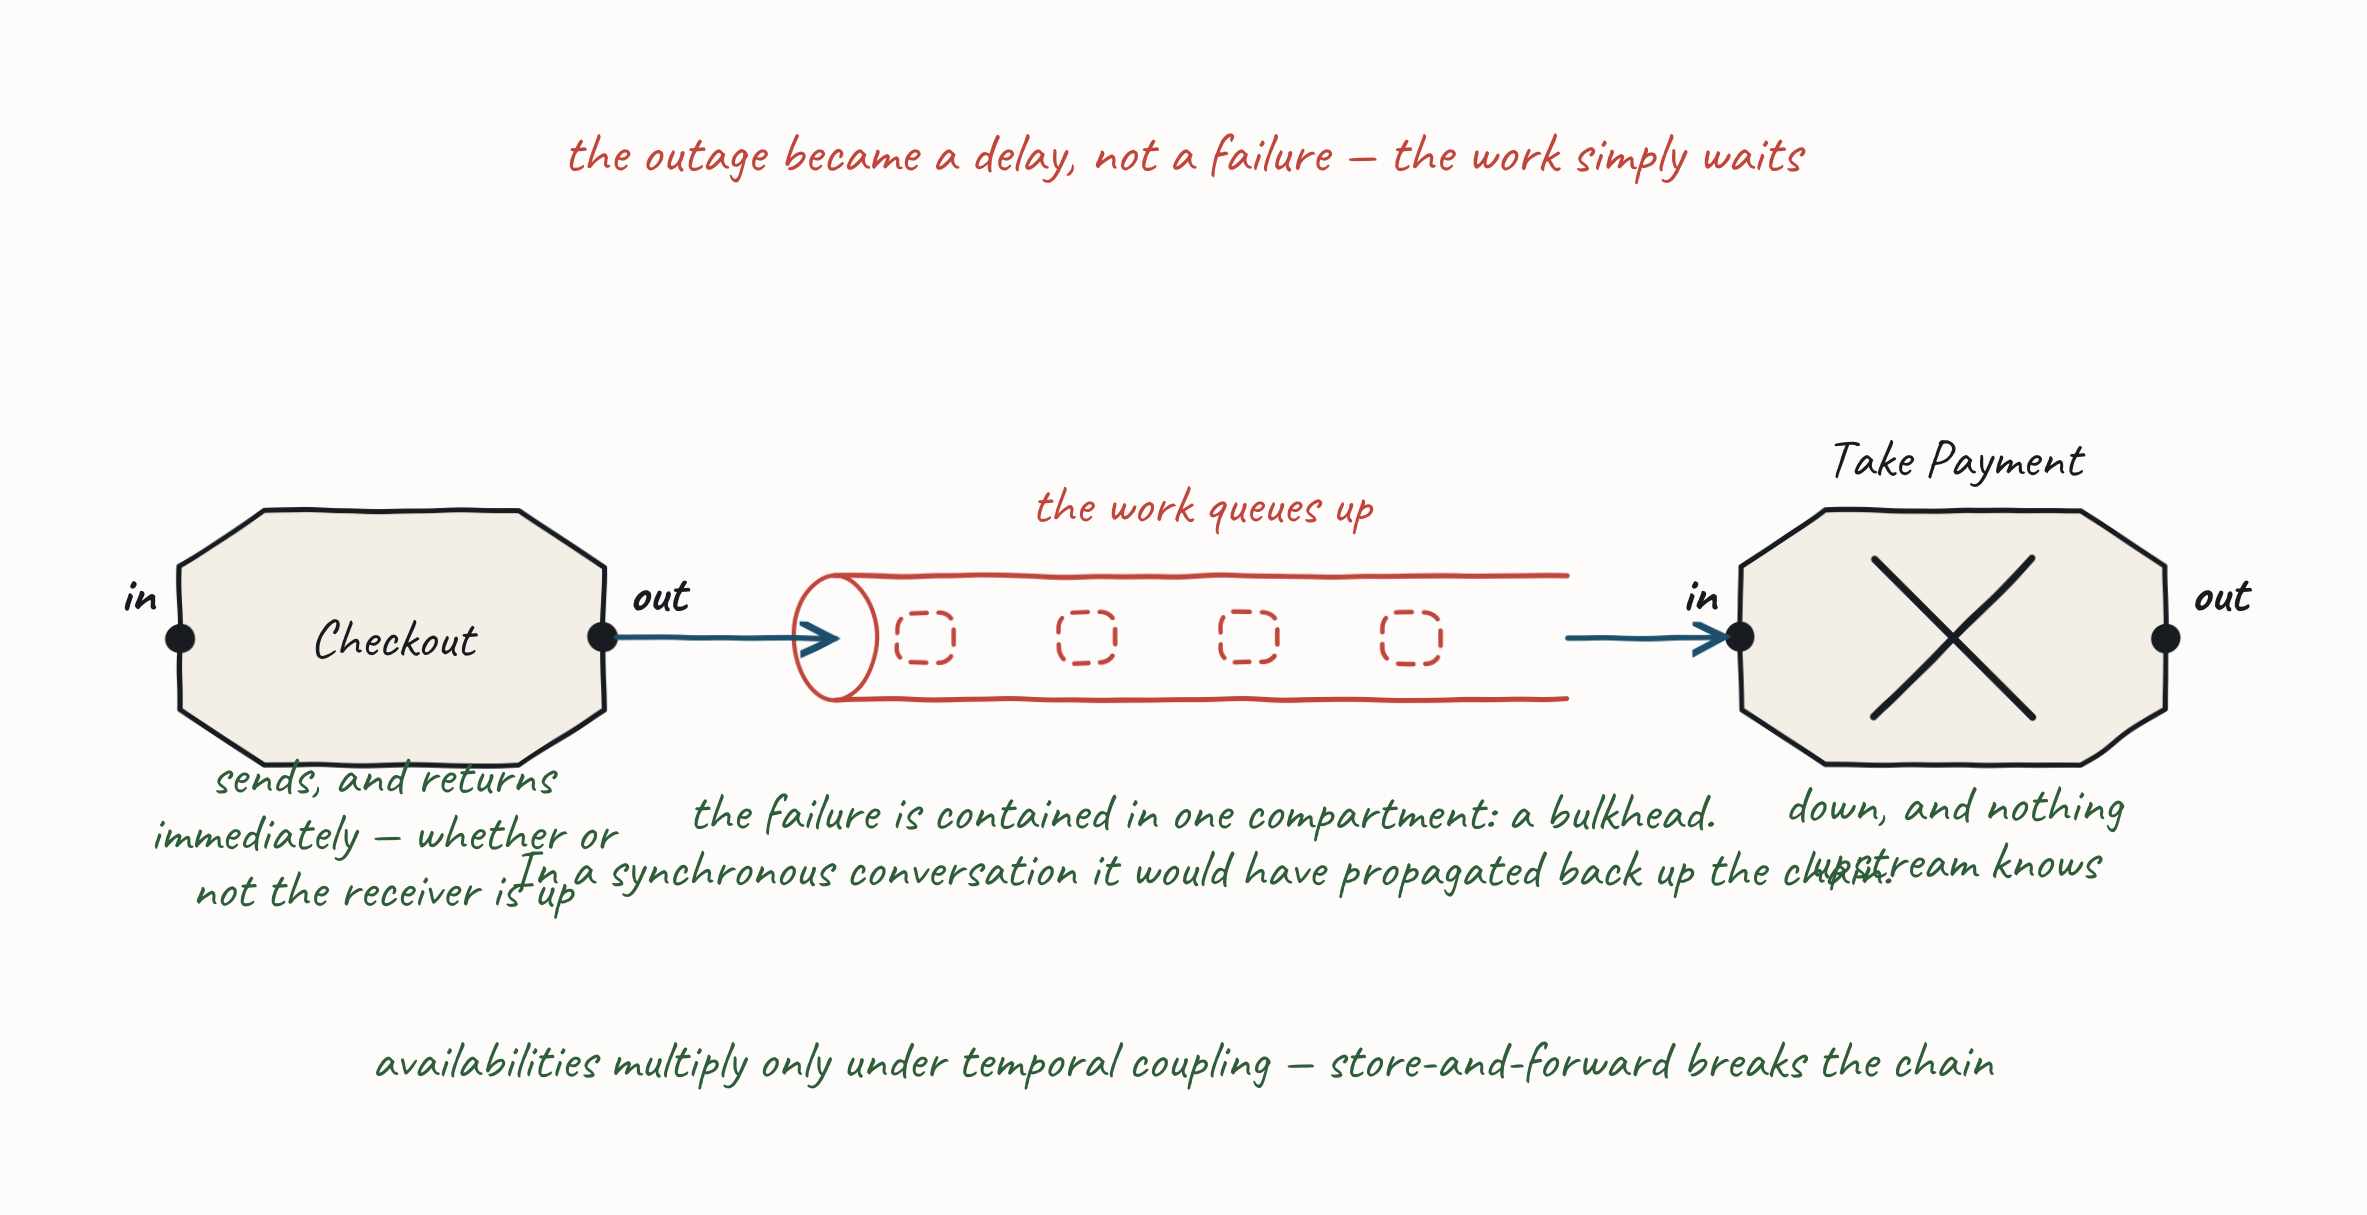
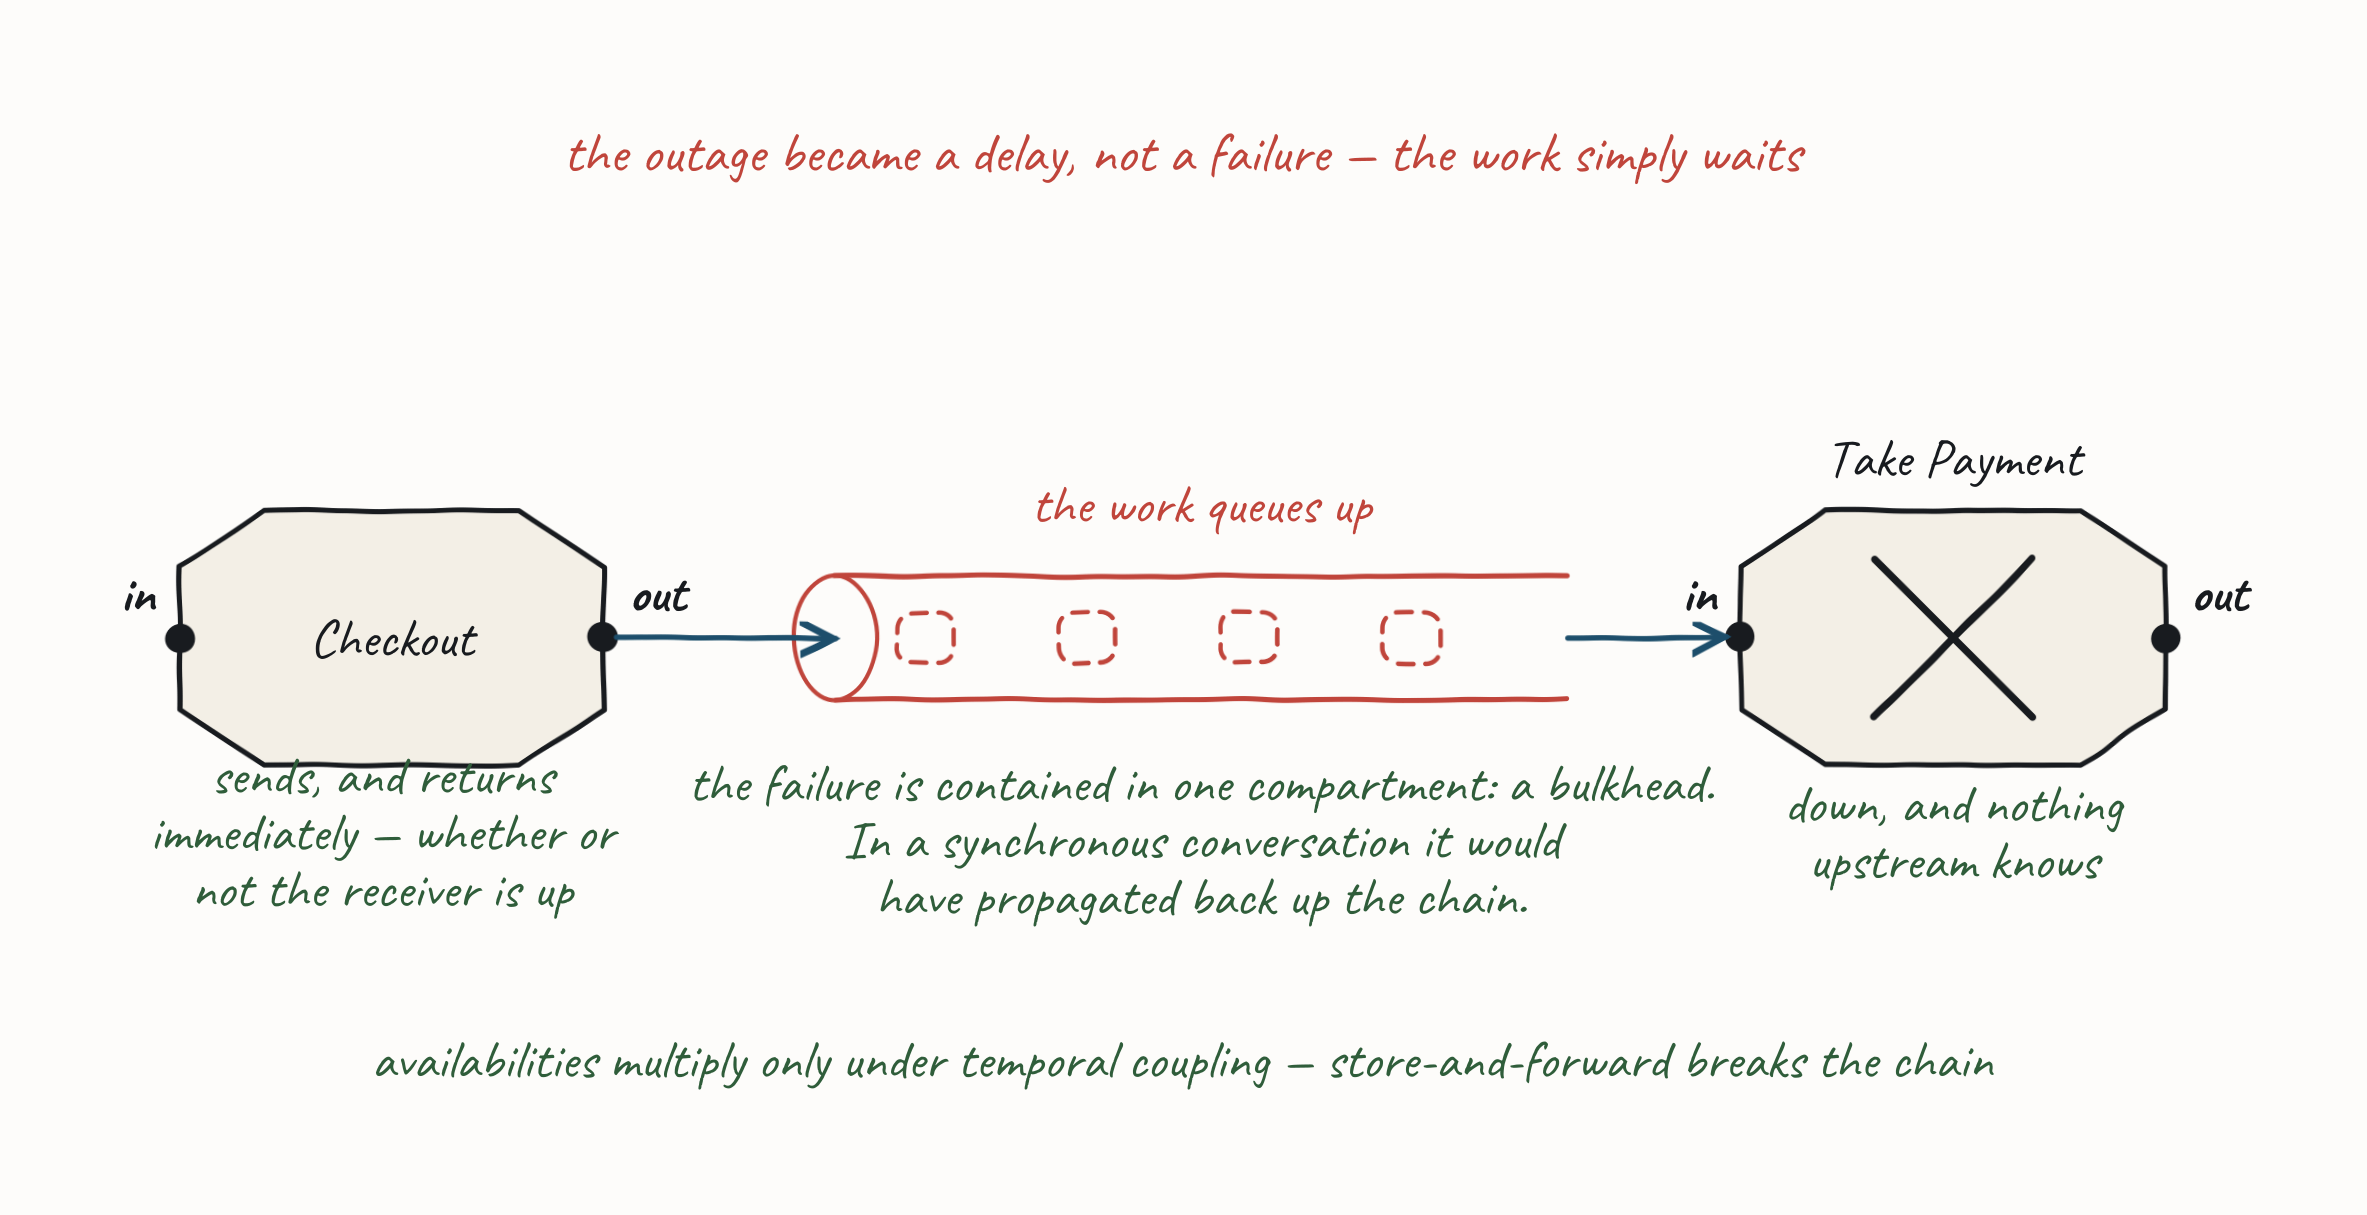
G3: two figures were printing text over text
Both invisible in the source, and both invisible to lint_figures.py, which
measures a label against the SHAPE it sits in and against arrow runs and
never compares two labels with each other. Found by looking at d1-011, then
by a checker written to ask how many more there were.

grid-coupling. "a whole entity" printed straight across "a command message".
The two points are 40 raw units apart, which was comfortable on the 1060-unit
frame -- but _frame compacts to 627 and TEXT DOES NOT SCALE, so 40 raw
arrived as 4 final. Reasoned in final units, which is the only place this
works: the plot's top rule is at 115.2, the mid rule at 212.1, and the
Control label's descenders reach 209.5 -- 2.6 clear of the mid rule, so
Control cannot go down. Raising Stamp by 27 raw is what is left, and it
leaves the top line 21 clear of the top rule.

⚑ I first labelled that point `above` instead. It cleared the collision and
then lay straight across the plot's top rule -- lint's OTHER blind spot, and
one only a second look at the PNG caught. Rule zero, twice on one figure.

flow-bulkhead. Three comment notes share a row; the side ones end at x=205
and start again at x=595, leaving the middle one a 390-unit gap. Its second
line measured 460 and ran through both of them. Rewrapped to three lines that
fit, with the measurement recorded beside it so the next edit re-checks.

Both families lint clean, reads_at is unchanged, and git status shows only
[…]

Changed region(s): [[0.2159, 0.6395, 0.8019, 0.7613]]

diff --git a/tools/coupling_grids.py b/tools/coupling_grids.py
@@ -104,7 +104,21 @@ def grid_coupling():
     d.note(530, 48, "“loosely coupled” is a question with two answers", ANNOTATION, 19)
 
     d.point(X["Common"], 208, "a shared database")
-    d.point(X["Stamp"], 208, "an event carrying\na whole entity")
+    # **Raised from 208, and the reason is arithmetic rather than taste.** Its two
+    # lines and the Control point's two lines were 40 raw units apart, comfortable at
+    # 1060 -- but `_frame` compacts to 627 and TEXT DOES NOT SCALE, so 40 raw arrived
+    # as 4 final units and "a whole entity" printed straight across "a command
+    # message". `lint_figures.py` cannot see it: it measures a label against a SHAPE
+    # and against arrow runs, never against another label.
+    #
+    # Measured in FINAL units, which is the only place this can be reasoned about:
+    # the plot's top rule is at 115.2, the mid rule at 212.1, and the Control label's
+    # descenders reach 209.5 -- 2.6 clear of the mid rule, so Control cannot move
+    # down. Raising Stamp by 15 final (27 raw) is what is left, and it leaves the top
+    # line 21 clear of the top rule. **Labelling it `above` instead does not work** --
+    # it clears the Control label and then lies straight across that top rule, which
+    # is lint's other blind spot and cost a second look at the PNG to find.
+    d.point(X["Stamp"], 181, "an event carrying\na whole entity")
     # 268 put the second line's descenders through the "must we both be up?" rule
     # once the frame was compacted -- it was a unit clear at 1060 and is not at 890.
     # Where a point sits *within* a band carries nothing, so the fix is to raise it.

diff --git a/tools/flow_reactive.py b/tools/flow_reactive.py
@@ -872,9 +872,14 @@ def bulkhead():
     d.note(195, 396, "sends, and returns\nimmediately — whether or\n"
                      "not the receiver is up", COMMENT, 15)
     d.note(1010, 396, "down, and nothing\nupstream knows", COMMENT, 15)
+    # **Wrapped to three lines, and the width is the reason.** Three comment notes
+    # share this row: the side ones end at x=205 and start again at x=595 (final
+    # units), leaving this one a 390-unit gap. Its second line measured 460 and ran
+    # straight through BOTH of them -- text over text, which `lint_figures.py` never
+    # looks for. Every line here now fits the gap. Re-measure if the wording changes.
     d.note(620, 400, "the failure is contained in one compartment: a bulkhead.\n"
-                     "In a synchronous conversation it would have propagated back "
-                     "up the chain.", COMMENT, 15)
+                     "In a synchronous conversation it would\n"
+                     "have propagated back up the chain.", COMMENT, 15)
     caveat(d, "availabilities multiply only under temporal coupling — "
               "store-and-forward breaks the chain")
     return d

diff --git a/BACKLOG.md b/BACKLOG.md
@@ -111,7 +111,7 @@ still empty and lint is still clean. **Rule zero, applied to slides for the firs
 |---|---|---|---|
 | **G1** | **30 slides (10%) carry a 2021 import in a foreign register** | **L** | Day 1 **5** — §4.4's producer side (`Transactional No Outbox`, `Transactional With Outbox`, `Log Tailing`, `State Change Capture`, `Inbox`), bright blue/orange/green, **sitting in the same sub-section as the redrawn consumer-side figures**. Day 2 **25** — the whole *Worked Flows* run, the FBP worked examples, and **all of *Putting It Together***: black-on-white value streams still stamped *29 SEP 2021*, tiny blue-and-black fax flows, purple-hexagon FBP graphs. **Against the standing instruction in the plan** — Ian: *"Let's redraw both runs. One thing I want to strive for is a consistent look and feel"* — beside which the plan already warns *"their `.png`s are 2021 black-on-white, so linking them keeps the old look."* **Several are illegible at slide size**: d2-137 and d2-140 carry ~4pt annotations, and `paper-worked-flows-montage` (d2-022) tiles four of them onto one slide |
 | **G2** | **10 slides say the same line twice** — the callout repeats the figure's own red note | S | Two are word for word: **d1-007**, **d1-011**. The other eight are close paraphrases — d1-018, d1-051, d1-103, d2-022, d2-035, d2-039, d2-060, d2-072. In most the **red note is the longer and better line**, so the callout is what should go; **d1-051 is the exception** — its callout carries a §4.4 forward reference the note does not. Dropping a callout also gives the figure back ~13 points |
-| **G3** | **3 text-on-text collisions inside figures** | S | `grid-coupling` — *"a command message"* printed across *"a whole entity"*. `flow-bulkhead` — a long comment line runs straight through **both** node captions. **`lint_figures.py` cannot see any of them**: it measures a label against a *shape* and against arrow runs, never against another label |
+| **G3** | ✅ **3 text-on-text collisions inside figures** | — | `grid-coupling` — *"a command message"* printed across *"a whole entity"*. `flow-bulkhead` — a long comment line runs straight through **both** node captions. **`lint_figures.py` cannot see any of them**: it measures a label against a *shape* and against arrow runs, never against another label. **Fixed 2026-09-10, both in FINAL units** — the only place either could be reasoned about. `grid-coupling`: the two points were 40 raw units apart, comfortable at 1060, but `_frame` compacts to 627 and text does not scale, so 40 raw arrived as **4**; the Stamp point is raised 27 raw, because the Control label's descenders sit **2.6 units** off the mid rule and cannot move down. **Labelling it `above` instead was tried and reverted** — it cleared the collision and then lay across the plot's top rule, lint's *other* blind spot, found only by looking at the PNG again. `flow-bulkhead`: three comment notes share a row, the side ones leaving a 390-unit gap, and the middle one's second line measured **460** — rewrapped to three lines that fit |
 | **G4** | **6 slides whose body is the words "Section marker"** | S | d1-027, d1-080, d1-085, **d2-005**, d2-062, d2-129. Scaffolding that went up on screen — rule 2 in spirit. **d2-005 is the first teaching slide of Day Two** |
 | **G5** | **Day 1's Closing is a stub** | S | *Further Reading* reads **"Pointers for going deeper."** and lists nothing, where Day 2 closes with four proper reading slides and their covers. The *Closing* divider is also the only one in either deck with no sub-line |
 | **G6** | ✅ **d1-025's divider sub-line restates its own title** | — | *"4.1 What Is a Message?"* over *"What is a message?"*. The only one of the 19 dividers that does it. **Fixed 2026-09-10** — the sub-line now names what the section teaches, *"Header and body — and whether you are expressing intent or reporting a fact"*, which is the shape every other section's sub-line uses |
